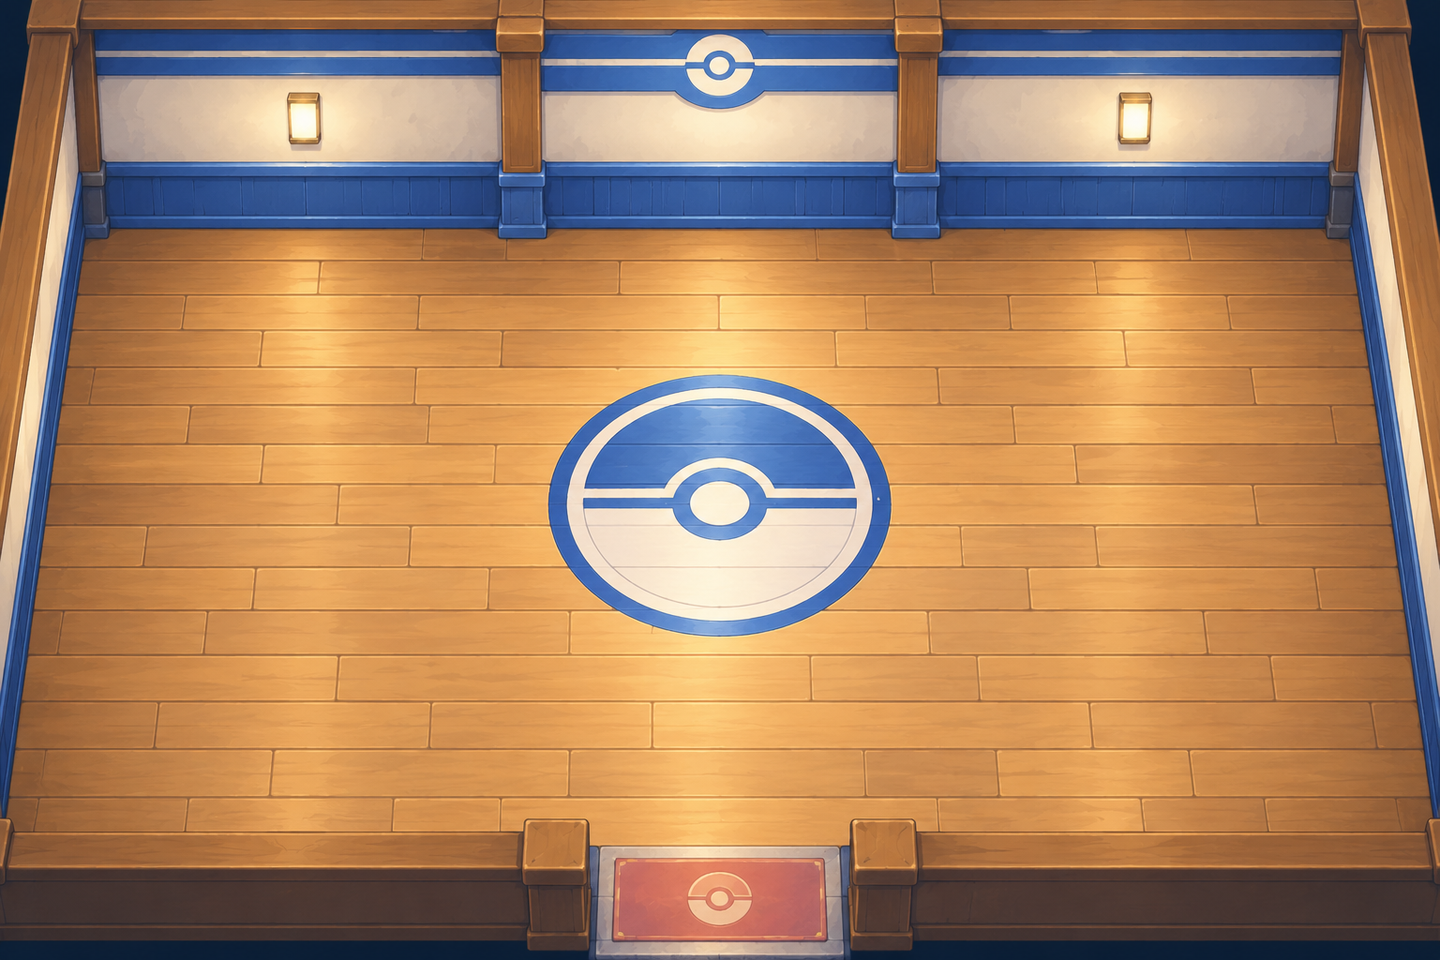
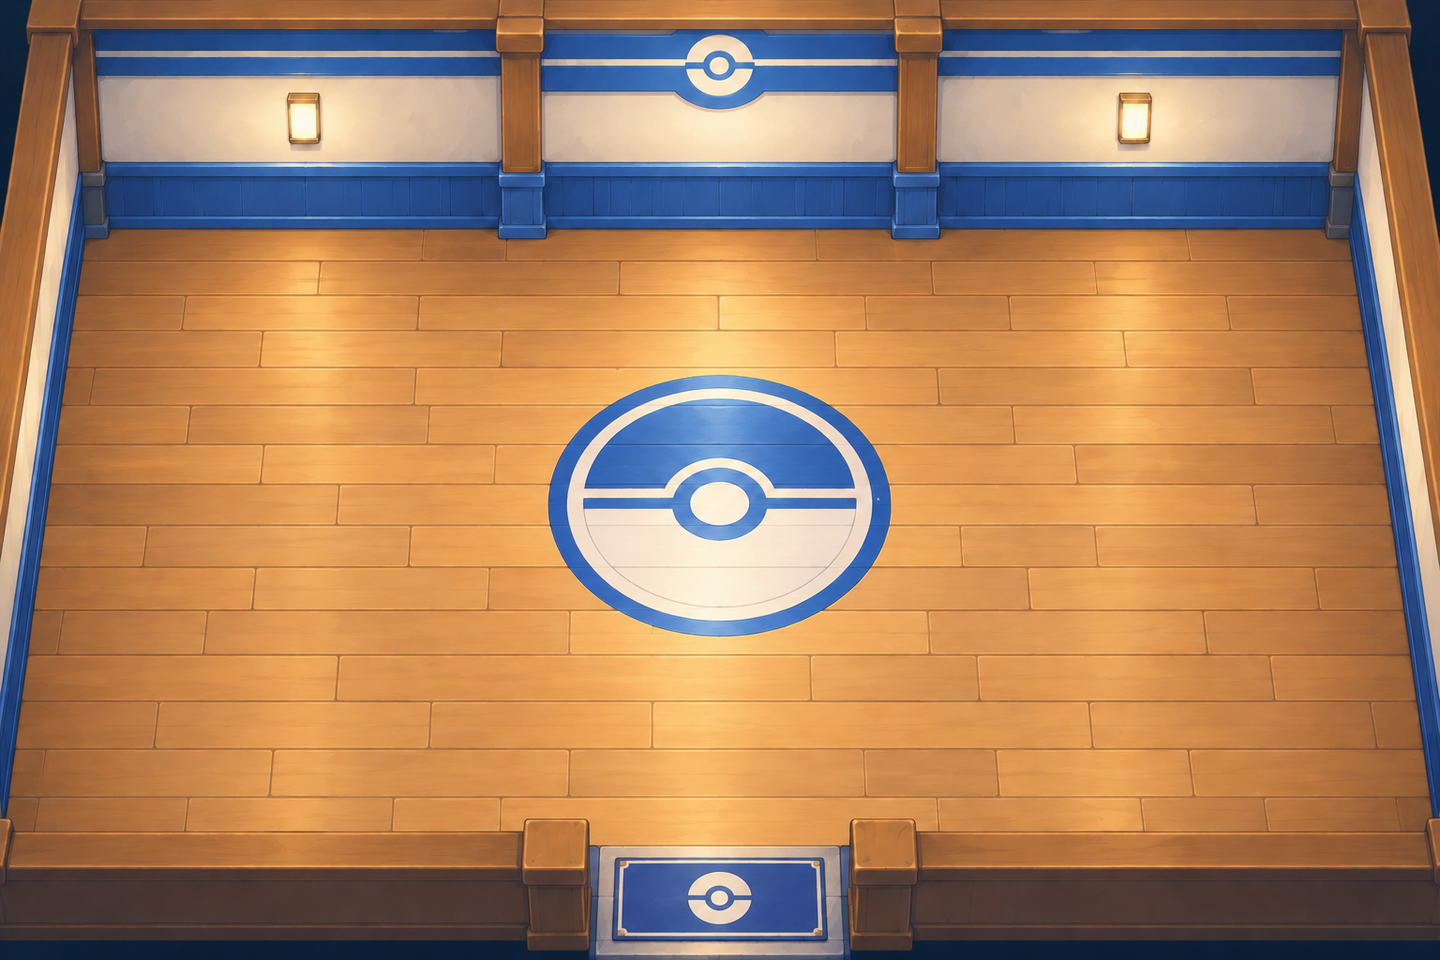
Prototype : paillasson bleu de la Boutique, clairières des herbes hautes, fondu du fond du Plateau Indigo

Changed region(s): [[0.4062, 0.875, 0.5938, 1.0], [0.5312, 0.4062, 0.5625, 0.4375]]

diff --git a/tools/art/preparer_proto.py b/tools/art/preparer_proto.py
@@ -58,7 +58,7 @@ OBJETS = [
 # Enveloppes des pièces (15 × 10 cases), opaques.
 PIECES = [
     ("INT_CENTRE_COQUE_NE_r1.png", "int_centre_coque.png"),
-    ("INT_BOUTIQUE_COQUE_NE_r1.png", "int_boutique_coque.png"),
+    ("INT_BOUTIQUE_COQUE_NE_r2.png", "int_boutique_coque.png"),
 ]
 SOLS = [
     ("VALIDE_HERBE.png", "herbe.png", 1.0),

diff --git a/docs/design/fiches-assets/serie-01-place-jadielle.md b/docs/design/fiches-assets/serie-01-place-jadielle.md
@@ -667,7 +667,7 @@ Scène : Jadielle peuplée (infirmière devant le Centre, marchand devant la Bou
 
 Générés par Codex du premier coup : enveloppes vides `INT_CENTRE_COQUE`, `INT_BOUTIQUE_COQUE` (15 × 10 cases, mur du fond, épaisseurs des murs, entrée de 2 cases en bas, emblème au sol) et meubles isolés `INT_CENTRE_COMPTOIR` (5 cases, machine de soin, sans infirmière ni Leveinard), `INT_CENTRE_TERMINAL` (Stockage Pokémon, écran sans texte), `INT_CENTRE_BANQUETTE`, `INT_PLANTE`, `INT_BOUTIQUE_CAISSE`, `INT_BOUTIQUE_RAYON_MURAL`, `INT_BOUTIQUE_PRESENTOIR` (aucune étiquette lisible). **Méthode** : enveloppe vide + meubles séparés, pour que le jeu décide de l'agencement et des collisions (le plan n'est pas peint dans l'image). Pas d'escalier (dossier 09).
 Scène `proto_interieur.gd` ; `proto_visite.tscn` (scène principale de la branche) fait défiler au toucher : place (C2) → Centre → Boutique. Lumière d'intérieur : neutre, très légèrement chaude.
-**À reprendre** : le paillasson de la Boutique est rouge (le vouloir bleu) ; une pièce de 15 × 10 cases ne remplit pas la largeur du S24 (bandes noires sur les côtés) : la taille réelle des intérieurs se décidera avec le cadrage du J7A.
+**Corrigé** : paillasson de la Boutique passé en bleu (`INT_BOUTIQUE_COQUE_NE_r2`, retouche). **À reprendre** : une pièce de 15 × 10 cases ne remplit pas la largeur du S24 (bandes noires sur les côtés) : la taille réelle des intérieurs se décidera avec le cadrage du J7A.
 
 ## Série 04 — reste de Jadielle (2026-10-03, lumière NE)
 
@@ -678,4 +678,4 @@ Scène `proto_ville.gd` : Jadielle entière (40 × 28 cases) selon le plan du do
 
 Générés par Codex : `WORLD_RELIEF_FALAISE_01` (tronçon raccordable), `WORLD_RELIEF_ESCALIER_01`, `WORLD_PROP_ROCHER_01`, `WORLD_GROUND_HAUTES_HERBES_01` (1 case, deux touffes décalées par case dans la scène pour éviter les rangées), `WORLD_GROUND_CHEMIN_01` (terre battue ; saturation × 0,55 et contraste × 0,55 au traitement : trop orangée), `WORLD_DECOR_PLATEAU_INDIGO_01` (fond peint), `POKE_PIAFABEC`, `POKE_FEROSINGE`, `POKE_NIDORAN_F`, `PNJ_JEUNE_DRESSEUR` (casquette blanche et bleue, t-shirt bleu ciel : **défaut**).
 `POKE_NIDORAN_M` : r1 ressemblait à un Rattata (la planche de Rattata jointe pour le style a déteint sur la forme), r2 trop pelucheux (ancre Férosinge), **r3** ancré sur Nidoran femelle (bonne forme : corne, oreilles, épines) mais bleu → teinte décalée vers le violet par script (cran B). **Leçon** : pour un Pokémon, joindre comme ancre de style une espèce de forme proche, sinon la forme déteint.
-Scène `proto_route22.gd` (46 × 20 cases) : chemin depuis Jadielle (est) vers l'ouest, falaise et escalier vers un niveau supérieur, trois champs d'herbes hautes avec les Pokémon sur leurs bords (dedans, ils sont invisibles), forêt, et au bout le **point de vue sur le Plateau Indigo** où le rival vient de battre le jeune Dresseur (dossier 09 §13). Deuxième lieu de la visite. À reprendre : forêt trop serrée autour des herbes hautes ; raccord droit du fond peint à adoucir.
+Scène `proto_route22.gd` (46 × 20 cases) : chemin depuis Jadielle (est) vers l'ouest, falaise et escalier vers un niveau supérieur, trois champs d'herbes hautes avec les Pokémon sur leurs bords (dedans, ils sont invisibles), forêt, et au bout le **point de vue sur le Plateau Indigo** où le rival vient de battre le jeune Dresseur (dossier 09 §13). Deuxième lieu de la visite. **Corrigé** : clairière autour des herbes hautes (2 cases, 5 au sud, où les arbres cacheraient le champ) ; fond peint fondu sur ses bords droit et bas, sous la lisière de forêt.
